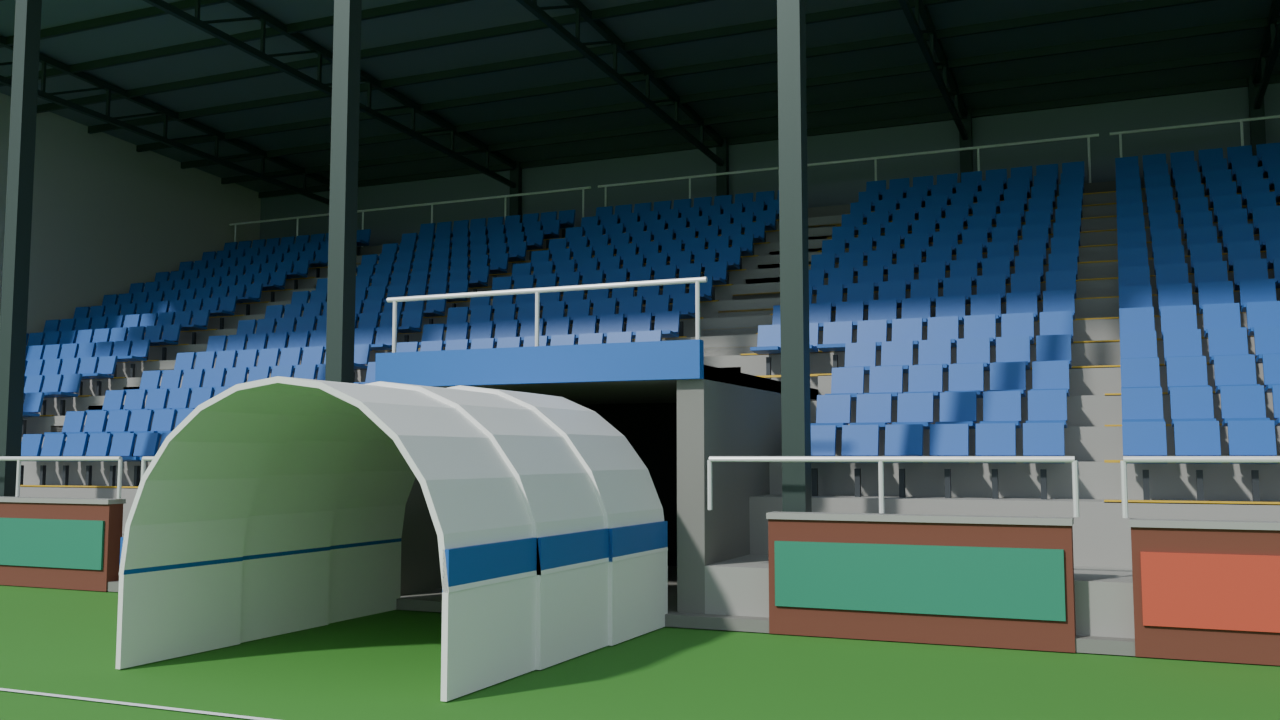
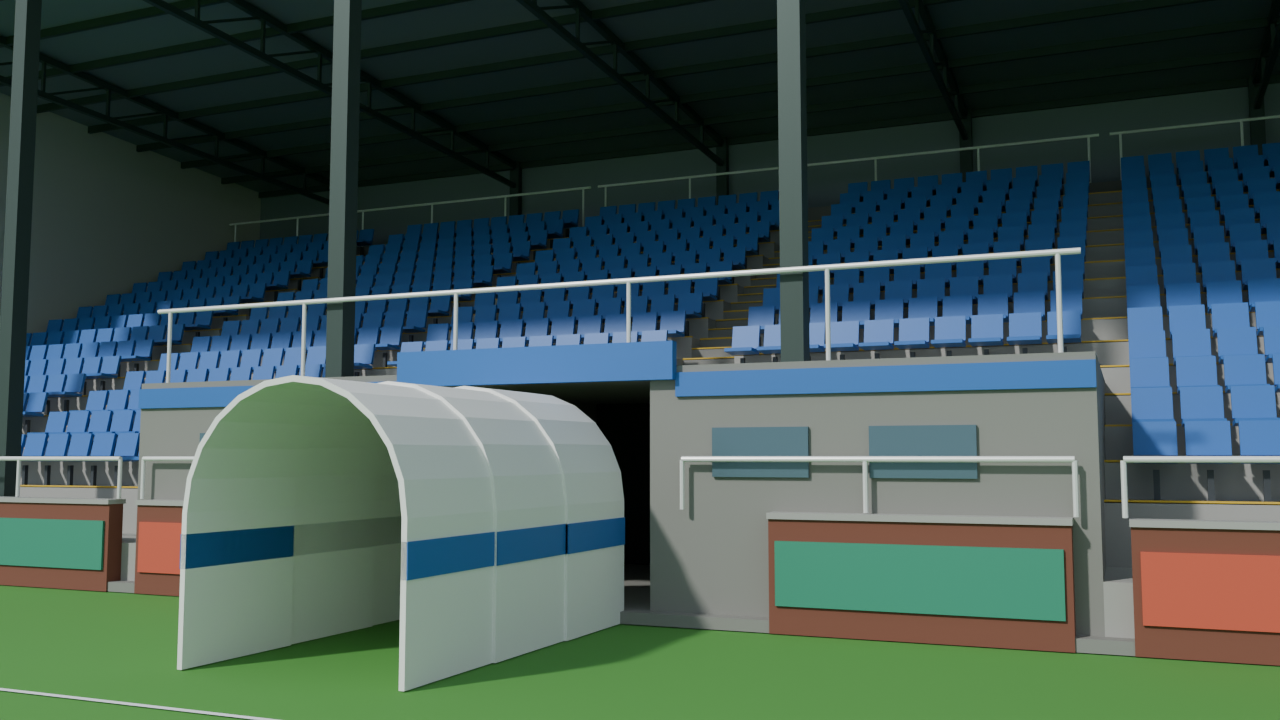
Stands round 2: 20 seats per row, real gangway treads, stair cores, tunnel section starts above the tunnel, slimmer canopy
Claude-Session: https://claude.ai/code/session_014ycydqV6UcPmXsxcMbevVi

Changed region(s): [[0.0, 0.2139, 1.0, 0.9778]]

diff --git a/tools/blender/build_main_stand.py b/tools/blender/build_main_stand.py
@@ -22,12 +22,12 @@ RISE = 0.40
 WALK_D = 1.5             # paddock walkway in front of the first row
 WALK_Z = 0.6
 ROW0_Z = 1.25
-AISLE_W = 1.2
+AISLE_W = 1.0            # 20 seats per row fit (Marcel 2026-11-08)
 SEAT_PITCH = 0.5
 COL_X = [-HW / 2, HW / 2]       # 5.75 m apart, continuous across sections, clear of the gangway
-TUNNEL_W = 3.4                  # tunnel mouth width
+TUNNEL_W = 2.8                  # tunnel mouth width
 TUNNEL_H = 2.5
-TUNNEL_ROWS = 4                 # rows removed above the tunnel
+TUNNEL_ROWS = 4                 # tunnel section: the first rows go over the full width (Marcel)
 
 ROWS = 15
 TUNNEL = "--tunnel" in sys.argv
@@ -82,6 +82,7 @@ M = {
 }
 
 parts = []
+SEATS = []
 
 
 def _ob(name, me, loc, m):
@@ -181,33 +182,42 @@ def build_section(rows, tunnel=False, x0=0.0, side_left=True, side_right=True):
     tx = TUNNEL_W / 2 + 0.3                     # half width of the tunnel block
     in_tunnel = lambda x: tunnel and abs(x) < tx
 
-    # ---- terrace: one solid step block per row (split around the tunnel block)
+    # ---- terrace: one solid step block per row, left and right of the gangway
     box("Plinth", W, rear_walk_y + 0.4, 0.12, (0, rear_walk_y / 2, 0.06), M["concrete_dark"])
-    def span(name, y0, depth, top, m):
-        if tunnel and top <= TUNNEL_H + 0.4:
-            for s in (-1, 1):
-                w = HW - tx
-                box(f"{name}{s}", w, depth, top, (s * (tx + w / 2), y0 + depth / 2, top / 2), m)
-        else:
-            box(name, W, depth, top, (0, y0 + depth / 2, top / 2), m)
-    span("Walkway", 0.0, WALK_D, WALK_Z, M["concrete"])
-    for r in range(rows):
-        y0 = WALK_D + r * TREAD
-        top = ROW0_Z + r * RISE
-        span(f"Row{r}", y0, TREAD, top, M["concrete"])
-        for s in (-1, 1):
-            w = HW - AISLE_W / 2
-            if not (tunnel and r < TUNNEL_ROWS):
-                box(f"Nosing{r}{s}", w, 0.06, 0.03, (s * (AISLE_W / 2 + w / 2), y0 + 0.03, top + 0.005), M["step_edge"])
-    # gangway half-steps up the middle (from the first row above the tunnel when there is one)
+    t_depth = WALK_D + TUNNEL_ROWS * TREAD
+    t_top = ROW0_Z + (TUNNEL_ROWS - 1) * RISE + 0.2
     r_start = TUNNEL_ROWS if tunnel else 0
+    if tunnel:
+        # the tunnel section starts above the tunnel over its full width: a podium (dressing rooms) with the tunnel in it
+        for s in (-1, 1):
+            w = HW - tx
+            box(f"Podium{s}", w, t_depth, t_top, (s * (tx + w / 2), t_depth / 2, t_top / 2), M["concrete_dark"])
+            box(f"PodiumBand{s}", w, 0.04, 0.25, (s * (tx + w / 2), -0.02, t_top - 0.2), M["trim"])
+            for k in range(2):
+                wx = s * (tx + 0.9 + k * 1.6)
+                box(f"PodiumWindow{s}{k}", 1.0, 0.04, 0.5, (wx, -0.02, 1.75), M["glass"])
+    else:
+        box("Walkway", W, WALK_D, WALK_Z, (0, WALK_D / 2, WALK_Z / 2), M["concrete"])
     for r in range(r_start, rows):
         y0 = WALK_D + r * TREAD
-        base = ROW0_Z + (r - 1) * RISE if r > 0 else WALK_Z
+        top = ROW0_Z + r * RISE
+        for s in (-1, 1):
+            w = HW - AISLE_W / 2
+            box(f"Row{r}{s}", w, TREAD, top, (s * (AISLE_W / 2 + w / 2), y0 + TREAD / 2, top / 2), M["concrete"])
+            box(f"Nosing{r}{s}", w, 0.06, 0.03, (s * (AISLE_W / 2 + w / 2), y0 + 0.03, top + 0.005), M["step_edge"])
+    # gangway: two treads per row (front half at half height, back half at the row's height)
+    for r in range(r_start, rows):
+        y0 = WALK_D + r * TREAD
+        if tunnel and r == r_start:
+            base = t_top
+        else:
+            base = ROW0_Z + (r - 1) * RISE if r > 0 else WALK_Z
         top = ROW0_Z + r * RISE
         mid = (base + top) / 2
         box(f"AisleStep{r}", AISLE_W, TREAD / 2, mid, (0, y0 + TREAD / 4, mid / 2), M["concrete_dark"])
+        box(f"AisleStepB{r}", AISLE_W, TREAD / 2, top, (0, y0 + TREAD * 0.75, top / 2), M["concrete_dark"])
         box(f"AisleEdge{r}", AISLE_W, 0.06, 0.03, (0, y0 + 0.03, mid + 0.005), M["step_edge"])
+        box(f"AisleEdgeB{r}", AISLE_W, 0.06, 0.03, (0, y0 + TREAD / 2 + 0.03, top + 0.005), M["step_edge"])
     # rear walkway + upstand + rail
     box("RearWalk", W, rear_walk_y - back_y, top_z + 0.4, (0, (back_y + rear_walk_y) / 2, (top_z + 0.4) / 2), M["concrete_dark"])
     cyl("RearRail", 0.03, W - 0.2, (0, back_y + 0.1, top_z + 1.4), M["rail"], axis='X')
@@ -216,25 +226,26 @@ def build_section(rows, tunnel=False, x0=0.0, side_left=True, side_right=True):
 
     # ---- players' tunnel: concrete block under the first rows, dark mouth, extendable canopy
     if tunnel:
-        t_depth = WALK_D + TUNNEL_ROWS * TREAD
-        t_top = ROW0_Z + (TUNNEL_ROWS - 1) * RISE + 0.2
         for s in (-1, 1):
             box(f"TunnelWall{s}", 0.3, t_depth, t_top, (s * (TUNNEL_W / 2 + 0.15), t_depth / 2, t_top / 2), M["concrete_dark"])
         box("TunnelRoof", TUNNEL_W + 0.6, t_depth, t_top - TUNNEL_H, (0, t_depth / 2, TUNNEL_H + (t_top - TUNNEL_H) / 2), M["concrete_dark"])
         box("TunnelInside", TUNNEL_W, 0.1, TUNNEL_H, (0, t_depth - 0.05, TUNNEL_H / 2), M["dark"])
         box("TunnelFloor", TUNNEL_W, t_depth, 0.05, (0, t_depth / 2, 0.025), M["dark"])
         box("TunnelLintel", TUNNEL_W + 0.6, 0.12, 0.4, (0, -0.06, TUNNEL_H + 0.2), M["trim"])
-        # rail on the front edge of the tunnel block (people sit right behind it)
-        cyl("TunnelTopRail", 0.03, TUNNEL_W + 0.6, (0, 0.1, t_top + 0.9), M["rail"], axis='X')
-        for s2 in (-1, 0, 1):
-            cyl(f"TunnelTopRailPost{s2}", 0.025, 0.9, (s2 * (TUNNEL_W / 2 + 0.2), 0.1, t_top + 0.45), M["rail"], seg=8)
-        # extendable canopy out onto the pitch side: 4 hoops of white fabric with club-colour bands
+        # rail along the front edge of the podium, full width
+        cyl("PodiumRail", 0.03, W - 0.2, (0, 0.15, t_top + 0.95), M["rail"], axis='X')
+        for k in range(6):
+            x = -HW + 0.3 + k * (W - 0.6) / 5
+            cyl(f"PodiumRailPost{k}", 0.025, 0.95, (x, 0.15, t_top + 0.475), M["rail"], seg=8)
+        # extendable canopy out onto the pitch side: slim hoops of white fabric with club-colour bands
+        r_c, skirt = 1.15, 1.25
         for k in range(3):
-            half_tube(f"TunnelHoop{k}", 1.65 - k * 0.04, 1.35, (0, -0.8 - k * 1.3, 0.75), M["tunnel"])
-            box(f"TunnelBand{k}", 0.05, 1.35, 0.3, (1.62 - k * 0.04, -0.8 - k * 1.3, 0.9), M["trim"])
-            box(f"TunnelBandL{k}", 0.05, 1.35, 0.3, (-1.62 + k * 0.04, -0.8 - k * 1.3, 0.9), M["trim"])
+            rk = r_c - k * 0.03
+            yk = -0.75 - k * 1.25
+            half_tube(f"TunnelHoop{k}", rk, 1.3, (0, yk, skirt), M["tunnel"])
             for s in (-1, 1):
-                box(f"TunnelSkirt{k}{s}", 0.05, 1.35, 0.75, (s * (1.62 - k * 0.04), -0.8 - k * 1.3, 0.375), M["tunnel"])
+                box(f"TunnelSkirt{k}{s}", 0.05, 1.3, skirt, (s * (rk - 0.025), yk, skirt / 2), M["tunnel"])
+                box(f"TunnelBand{k}{s}", 0.06, 1.3, 0.28, (s * (rk - 0.02), yk, skirt * 0.75), M["trim"])
 
     # ---- front wall with adverts + rail (gap for the tunnel)
     ads = [M["ad1"], M["ad2"], M["ad3"], M["ad2"]]
@@ -261,23 +272,20 @@ def build_section(rows, tunnel=False, x0=0.0, side_left=True, side_right=True):
             cyl(f"FrontRailPost{x:.2f}", 0.025, 0.5, (x, -0.11, 1.42), M["rail"], seg=8)
 
     # ---- seats
-    seat_xs = []
-    x = -HW + 0.4
-    while x < HW - 0.3:
-        if abs(x) > AISLE_W / 2 + 0.2:
-            seat_xs.append(x)
-        x += SEAT_PITCH
+    seat_xs = [sgn * (AISLE_W / 2 + 0.25 + k * SEAT_PITCH) for sgn in (-1, 1) for k in range(10)]   # 20 per row
     n_seats = 0
     for r in range(rows):
         y0 = WALK_D + r * TREAD
         top = ROW0_Z + r * RISE
         sy = y0 + TREAD * 0.55
         for sx in seat_xs:
-            if tunnel and r < TUNNEL_ROWS and abs(sx) < tx + 0.2:
+            if tunnel and r < TUNNEL_ROWS:
                 continue
             box(f"SeatLeg{r}_{sx:.2f}", 0.06, 0.06, 0.32, (sx, sy, top + 0.16), M["seat_metal"])
             box(f"SeatPan{r}_{sx:.2f}", 0.42, 0.38, 0.05, (sx, sy - 0.04, top + 0.42), M["seat"], Matrix.Rotation(math.radians(-4), 3, 'X'))
             box(f"SeatBack{r}_{sx:.2f}", 0.42, 0.05, 0.36, (sx, sy + 0.17, top + 0.64), M["seat"], Matrix.Rotation(math.radians(-12), 3, 'X'))
+            if x0 == 0.0:
+                SEATS.append((round(sx, 3), round(top + 0.44, 3), round(-sy, 3), r))   # Godot axes (x, up, -y)
             n_seats += 1
 
     # ---- steel: front columns (in your view — that's the charm), rear columns, trussed rafters
@@ -341,14 +349,32 @@ def build_section(rows, tunnel=False, x0=0.0, side_left=True, side_right=True):
         box(f"CladRib{k}", 0.05, 0.04, fh - 3.25, (x, fy - 0.0, 3.25 + (fh - 3.25) / 2), M["cladding"])
     box("RearBand", W, 0.34, 0.18, (0, fy, 3.25), M["trim"])
     # windows (offices / bar under the stand) and one entrance with a canopy per section
-    for wx in (-4.2, -2.4, 2.4, 4.2):
+    for wx in (-4.3, -2.5):
         box(f"Window{wx}", 1.2, 0.05, 1.0, (wx, fy + 0.16, 1.9), M["glass"])
         box(f"WindowSill{wx}", 1.35, 0.12, 0.08, (wx, fy + 0.2, 1.36), M["concrete"])
     box("EntranceDoor", 1.6, 0.05, 2.3, (0, fy + 0.16, 1.15), M["dark"])
     box("EntranceCanopy", 2.4, 1.0, 0.1, (0, fy + 0.65, 2.65), M["trim"])
     box("EntranceSign", 1.2, 0.05, 0.3, (0, fy + 0.17, 2.85), M["fascia"])
+    # stair core to the rear walkway (fans go up here and down the gangways to their row)
+    sc_x0, sc_x1 = 1.6, 4.9
+    sc_w = sc_x1 - sc_x0
+    sc_cx = (sc_x0 + sc_x1) / 2
+    sc_d = 3.2
+    sc_h = top_z + 0.4 + 2.9
+    box("StairBrick", sc_w, sc_d, 3.2, (sc_cx, fy + sc_d / 2, 1.6), M["brick_rear"])
+    box("StairClad", sc_w - 0.1, sc_d - 0.1, sc_h - 3.2, (sc_cx, fy + sc_d / 2, 3.2 + (sc_h - 3.2) / 2), M["cladding"])
+    box("StairBand", sc_w + 0.04, sc_d + 0.04, 0.18, (sc_cx, fy + sc_d / 2, 3.25), M["trim"])
+    box("StairCap", sc_w + 0.12, sc_d + 0.12, 0.2, (sc_cx, fy + sc_d / 2, sc_h + 0.1), M["trim"])
+    box("StairDoor", 1.4, 0.05, 2.3, (sc_cx, fy + sc_d + 0.01, 1.15), M["dark"])
+    box("StairCanopy", 2.0, 0.8, 0.1, (sc_cx, fy + sc_d + 0.4, 2.6), M["trim"])
+    n_slits = max(1, int((sc_h - 4.0) / 2.4))
+    for k in range(n_slits):
+        z = 4.2 + k * 2.4
+        box(f"StairSlit{k}", 0.35, 0.04, 1.6, (sc_cx, fy + sc_d + 0.02, z + 0.8), M["glass"])
+    for s in (-1, 1):
+        cyl(f"Downpipe{s}", 0.06, roof_z(roof_back_y) - 0.2, (s * (HW - 0.15), fy + 0.2, (roof_z(roof_back_y) - 0.2) / 2), M["gutter"], seg=8)
     # upper window band in the cladding
-    box("UpperWindows", W - 1.0, 0.04, 0.6, (0, fy - 0.01 + 0.0 - 0.15, min(fh - 1.0, 5.5)), M["glass"])
+    box("UpperWindows", 2.8, 0.04, 0.6, (-3.4, fy + 0.0, min(fh - 1.0, 5.5)), M["glass"])
 
     # ---- side screens (separate objects so the game can hide them between neighbours)
     side_front_y = WALK_D + TREAD * 2
@@ -396,6 +422,9 @@ if not RENDER_SET:
     out = os.path.join(os.path.dirname(os.path.abspath(__file__)), "../../assets/models",
         "main_stand_%d%s.glb" % (ROWS, "_tunnel" if TUNNEL else ""))
     bpy.ops.export_scene.gltf(filepath=out, export_format='GLB', use_selection=False, export_apply=True)
+    import json
+    with open(out.replace(".glb", "_seats.json"), "w") as f:
+        json.dump({"rows": ROWS, "tunnel": TUNNEL, "seats": SEATS, "note": "[x, y, z, row] in the section's local Godot space"}, f)
 
 if RENDER_SET:
     world = bpy.data.worlds.new("World"); scene.world = world

diff --git a/tools/blender/build_shed.py b/tools/blender/build_shed.py
@@ -21,7 +21,7 @@ RISE = 0.42              # row height step
 WALK_D = 1.05            # front walkway depth
 WALK_Z = 0.45            # front walkway height (raised so the front row sees over the wall)
 ROW0_Z = 0.9             # first row tread height
-AISLE_W = 1.2            # central gangway
+AISLE_W = 1.0            # central gangway (1.0 m: 20 seats per row fit, Marcel 2026-11-08)
 SEAT_PITCH = 0.5
 BACK_Y = WALK_D + ROWS * TREAD          # back edge of the top row
 ROOF_FRONT_Y = -0.25                     # roof overhang over the walkway
@@ -67,7 +67,8 @@ M = {
     "dark": mat("Shadow_Gap", "#1E2322", 0.9),
 }
 
-parts = []   # (object) collected for joining per material
+parts = []
+SEATS = []   # seat positions of a single exported section, in Godot axes (x, up, towards the back = +z... see export)   # (object) collected for joining per material
 
 def box(name, sx, sy, sz, loc, m, rot=None):
     me = bpy.data.meshes.new(name)
@@ -151,8 +152,10 @@ def build_section(rows, x0=0.0):
     for r in range(ROWS):
         y0 = WALK_D + r * TREAD
         top = ROW0_Z + r * RISE
-        # each row is a solid step block, full height to the ground
-        box(f"Row{r}", W, TREAD, top, (0, y0 + TREAD / 2, top / 2), M["concrete"])
+        # each row is a solid step block, full height to the ground (left and right of the gangway)
+        for s in (-1, 1):
+            w = HW - AISLE_W / 2
+            box(f"Row{r}{s}", w, TREAD, top, (s * (AISLE_W / 2 + w / 2), y0 + TREAD / 2, top / 2), M["concrete"])
         # yellow safety nosing on the front edge of each step, both sides of the gangway
         for s in (-1, 1):
             box(f"Nosing{r}{s}", HW - AISLE_W / 2, 0.06, 0.03, (s * (AISLE_W / 2 + (HW - AISLE_W / 2) / 2), y0 + 0.03, top + 0.005), M["step_edge"])
@@ -162,7 +165,9 @@ def build_section(rows, x0=0.0):
         base = ROW0_Z + (r - 1) * RISE if r > 0 else WALK_Z
         top = ROW0_Z + r * RISE
         mid = (base + top) / 2
+        # two treads per row: half height on the front half, full row height on the back half
         box(f"AisleStep{r}", AISLE_W, TREAD / 2, mid, (0, y0 + TREAD / 4, mid / 2), M["concrete_dark"])
+        box(f"AisleStepB{r}", AISLE_W, TREAD / 2, top, (0, y0 + TREAD * 0.75, top / 2), M["concrete_dark"])
         box(f"AisleEdge{r}", AISLE_W, 0.06, 0.03, (0, y0 + 0.03, mid + 0.005), M["step_edge"])
         box(f"AisleEdgeB{r}", AISLE_W, 0.06, 0.03, (0, y0 + TREAD / 2 + 0.03, top + 0.005), M["step_edge"])
     # rear upstand behind the top row
@@ -190,12 +195,8 @@ def build_section(rows, x0=0.0):
         beam(f"AisleRailPost{t}", (0, p.y, floor), (0, p.y, p.z), 0.045, 0.045, M["rail"])
 
     # ------------------------------------------------------------------ seats (tip-up, 0.5 m pitch, gap for the gangway)
-    seat_xs = []
-    x = -HW + 0.4
-    while x < HW - 0.3:
-        if abs(x) > AISLE_W / 2 + 0.2:
-            seat_xs.append(x)
-        x += SEAT_PITCH
+    # 10 seats each side of the gangway = 20 per row, like the game counts
+    seat_xs = [sgn * (AISLE_W / 2 + 0.25 + k * SEAT_PITCH) for sgn in (-1, 1) for k in range(10)]
     for r in range(ROWS):
         y0 = WALK_D + r * TREAD
         top = ROW0_Z + r * RISE
@@ -207,6 +208,7 @@ def build_section(rows, x0=0.0):
             box(f"SeatPan{r}_{sx:.2f}", 0.42, 0.38, 0.05, (sx, sy - 0.04, top + 0.42), M["seat"], Matrix.Rotation(math.radians(-4), 3, 'X'))
             # back rest, leaning back
             box(f"SeatBack{r}_{sx:.2f}", 0.42, 0.05, 0.36, (sx, sy + 0.17, top + 0.64), M["seat"], Matrix.Rotation(math.radians(-12), 3, 'X'))
+            SEATS.append((round(sx, 3), round(top + 0.44, 3), round(-sy, 3), r))   # Blender (x, y, z) -> Godot (x, z, -y)
             n_seats += 1
 
     # ------------------------------------------------------------------ steel frame
@@ -259,9 +261,7 @@ def build_section(rows, x0=0.0):
         x = -(W + 0.3) / 2 + 0.11 + k * 0.22
         box(f"BackRib{k}", 0.05, 0.035, bw_h, (x, bw_y + 0.03, bw_h / 2), M["sheet"])
     box("BackWallInner", W + 0.3, 0.01, bw_h, (0, bw_y - 0.02, bw_h / 2), M["sheet_under"])
-    # a small exit door in the back wall, behind the gangway
-    box("BackDoor", 1.0, 0.05, 2.05, (0, bw_y + 0.05, 1.03 + 0.08), M["dark"])
-    box("BackDoorFrame", 1.15, 0.06, 0.08, (0, bw_y + 0.06, 2.18), M["steel"])
+    # no back door: fans come in from the front walkway and up the gangway (Marcel 2026-11-08)
 
     # ------------------------------------------------------------------ side screens (corrugated, back half of each end)
     side_front_y = WALK_D + TREAD * 0.6
@@ -314,6 +314,9 @@ _models = os.path.join(os.path.dirname(os.path.abspath(__file__)), "../../assets
 if "--render-set" not in sys.argv:
     for _name in (["the_shed_%d.glb" % ROWS] + (["the_shed.glb"] if ROWS == 3 else [])):
         bpy.ops.export_scene.gltf(filepath=os.path.join(_models, _name), export_format='GLB', use_selection=False, export_apply=True)
+    import json
+    with open(os.path.join(_models, "the_shed_%d_seats.json" % ROWS), "w") as f:
+        json.dump({"rows": ROWS, "seats": SEATS, "note": "[x, y, z, row] in the section's local Godot space"}, f)
 bpy.ops.wm.save_as_mainfile(filepath="/tmp/the_shed.blend")
 
 # ------------------------------------------------------------------ preview renders

diff --git a/GDD.md b/GDD.md
@@ -417,7 +417,15 @@ By the time you reach it, you're a big club with a real stadium and a real fanba
 - **A roof gives (Marcel): more approval, a higher ticket price per covered seat, and fewer fans staying away in bad weather** (the last one once weather exists). Numbers still to agree.
 - **Main stand brief (Marcel):** classic English for this tier (roof on columns in front of the seats), concrete terrace + steel trusses + corrugated roof, plastic seats in club colour, simple rear facade with entrances, **players' tunnel in the middle section**. Scoreboard and floodlights are **paid upgrades** later.
 - Built (renders only, not in the game yet): `tools/blender/build_shed.py --rows 3|5|8` (roof rises with the rows; `--render-set` for previews) and new `tools/blender/build_main_stand.py --rows 10|12|15 [--tunnel]` (`--render-set full|rows`). Main stand section: 1.5 m paddock walkway, 0.80 m rows, two front columns per section (5.75 m apart, continuous along the side), trussed rafters, deep fascia for a club name later, brick ground floor with windows/doors + cladding at the back, side screens as separate objects (hidden between neighbours). Tunnel section: the first 4 rows make way for a concrete tunnel block with an extendable white canopy with club-colour bands. Renders: `design/3d/the_shed/rows_3_5_8_*.png`, `design/3d/main_stand/*.png`.
-- Note: the models have 19 seats per row (the gangway takes one); the game counts 20 per row for bleachers.
+- **Feedback round 1 (Marcel, 2026-11-08):**
+  - **20 seats per row in the models** (Marcel chose B): gangway 1.0 m instead of 1.2 m, so what you see = what the game counts (bleachers, prices and promotion seat counts all use 20).
+  - **Access:** The Shed from the front (walkway + middle gangway; the fake back door is gone). Main stand: a **stair core at the back of every section** up to the rear walkway behind the top row, then down the gangways to your row.
+  - **Tunnel section starts above the tunnel over its full width** (no seats with a blocked view): the first 4 rows make way for a podium (dressing rooms, small windows, club band) with the tunnel in it and a rail along its edge.
+  - **Slimmer tunnel canopy** (2.3 m wide, ~2.4 m high).
+  - Gangways now have real treads (half-height front + full back per row); the black "holes" were the gangway steps hidden inside the row blocks.
+  - **Side walls between neighbours:** equal sections: none (as now). **Unequal sections: only the strip between the lower and the higher roof** (to build in the game, it depends on the neighbour).
+  - Roof numbers agreed: **approval: fans under a roof count 1.5× for the seating part**; **ticket +25% in The Shed, +50% in the main stand** on top of the division price; weather effect once weather exists.
+  - Seat positions per variant are exported as `*_seats.json` next to the .glb for the crowd. Seats are real geometry in the model for now; fps is watched (Marcel).
 
 ## 10i. 3D POC #2 — big two-tier stand (2026-11-07)
 **Marcel's ask:** a big stand as a POC, including floodlights, stairs, aisles, two tiers, a roof, roof beams, and some people spread over the seats.
